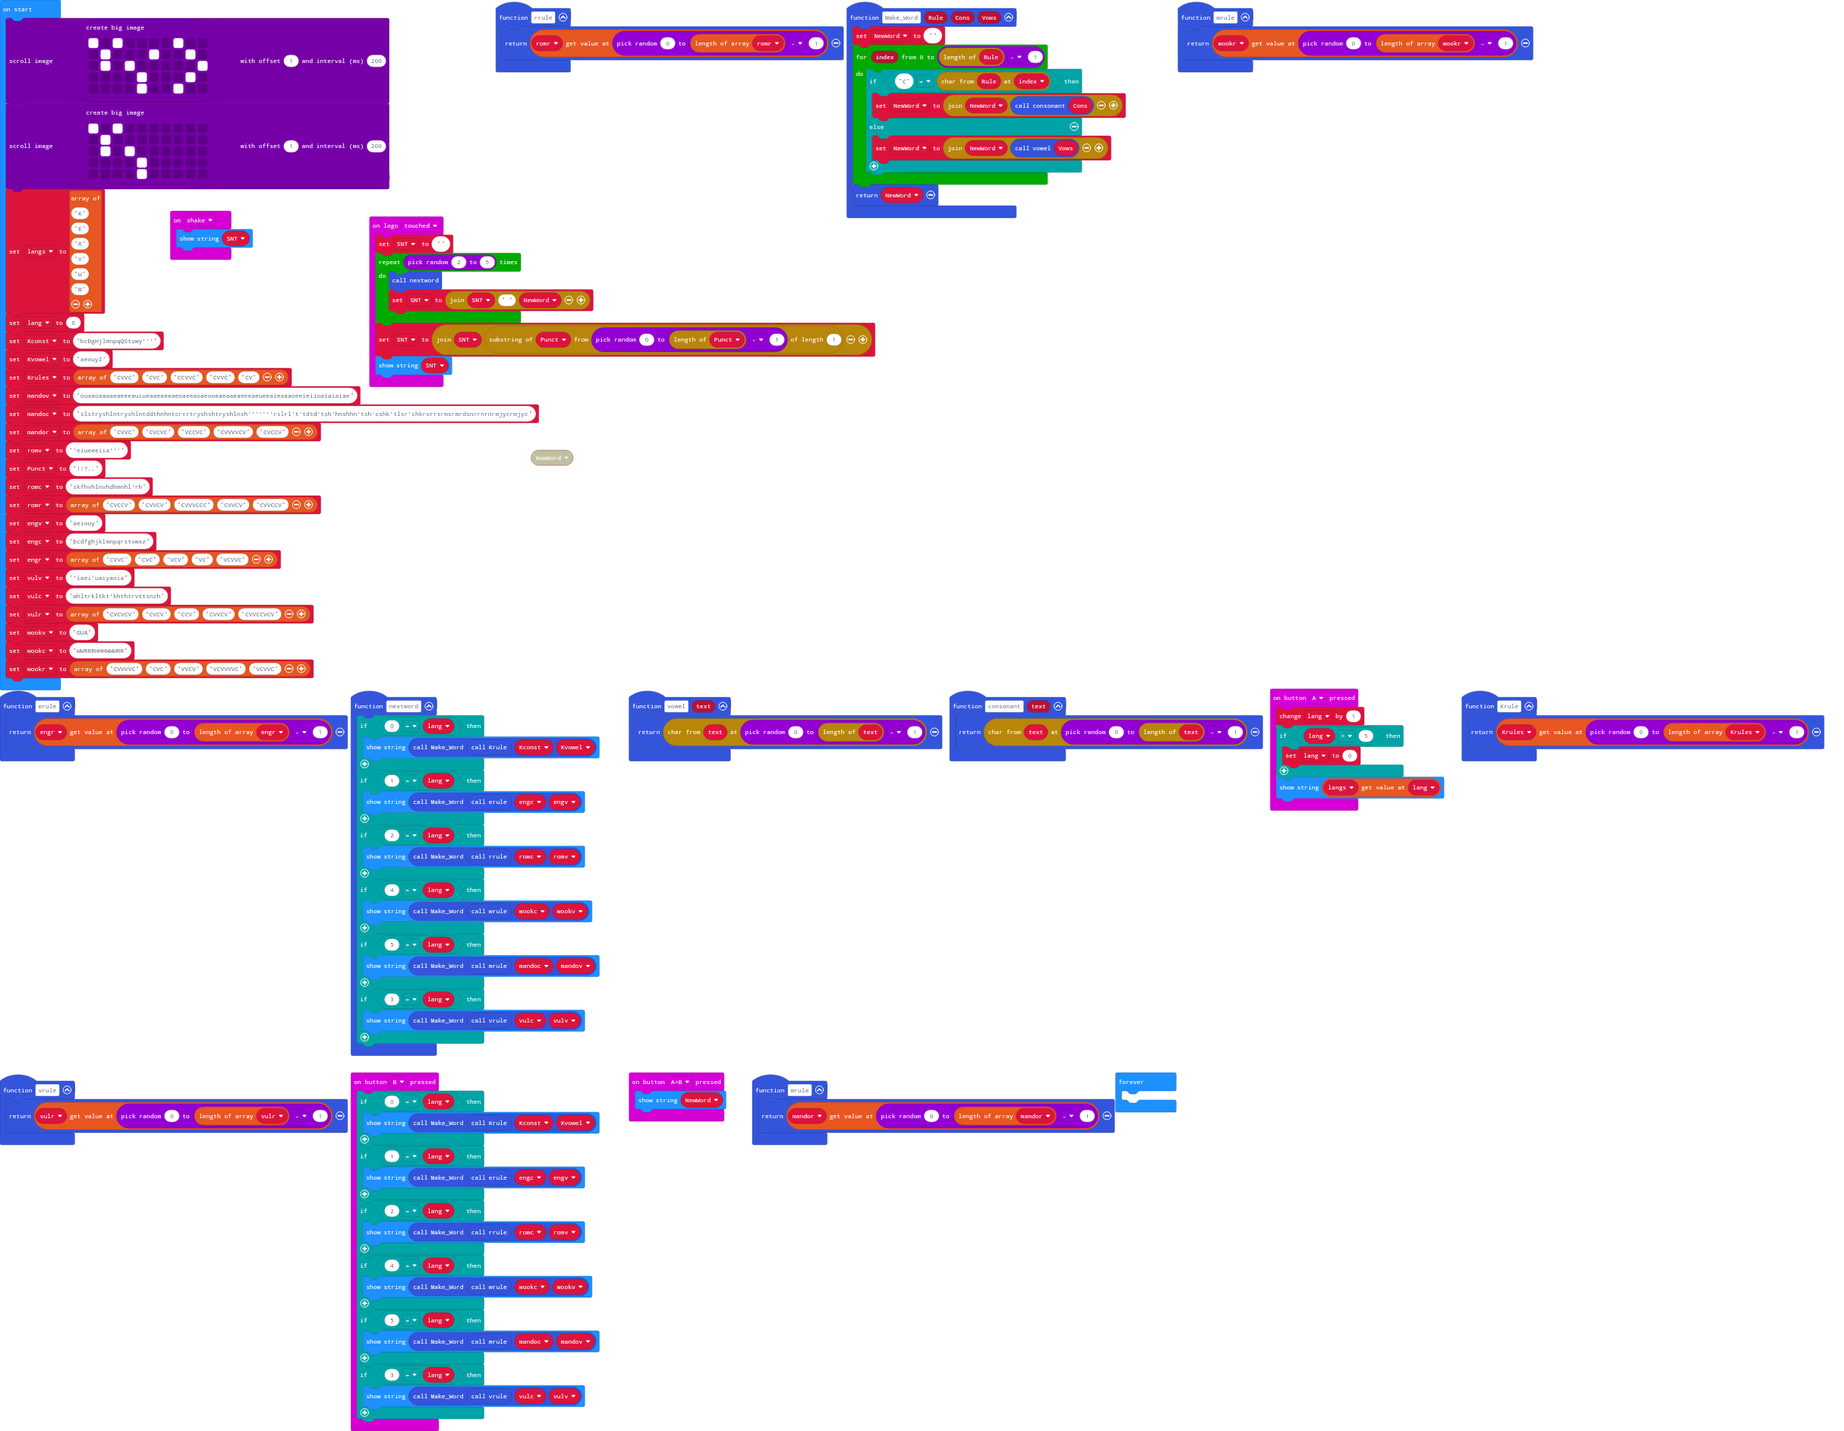
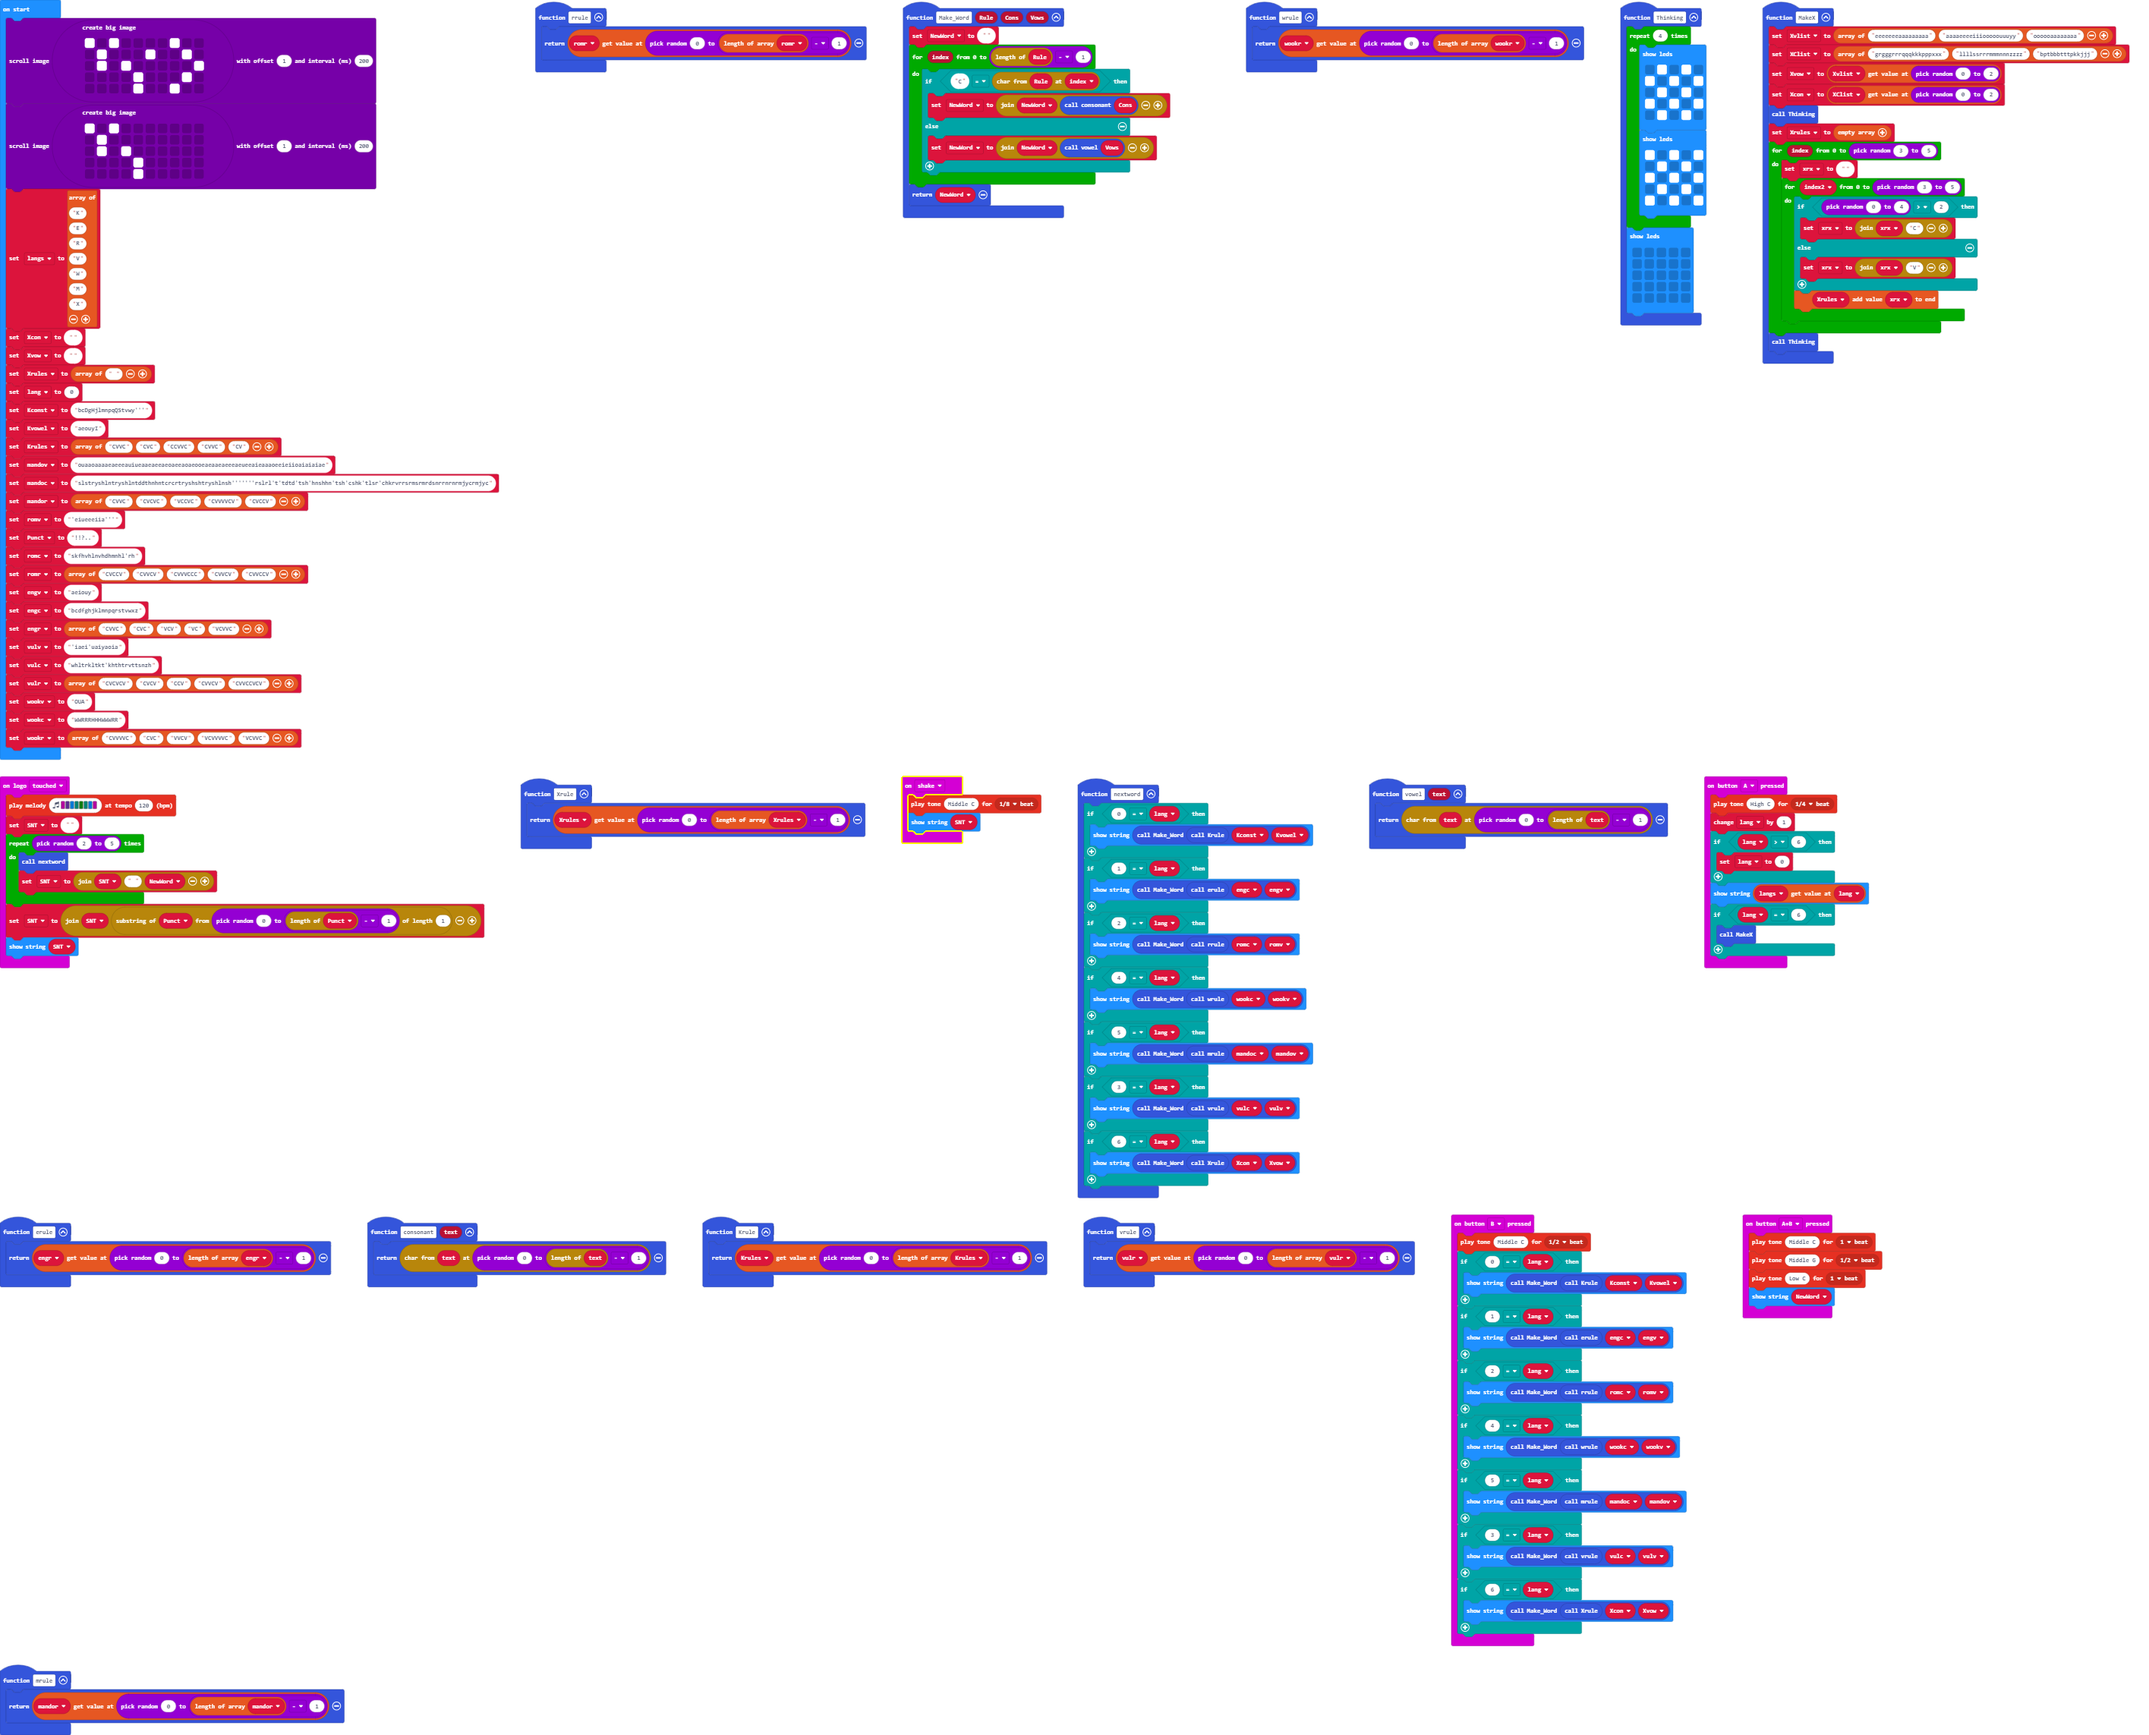
Update main.blocks, main.ts

Changed region(s): [[0.0, 0.0, 1.0, 1.0], [0.247, 0.0, 0.9881, 0.2154], [0.2779, 0.3077, 0.3088, 0.3385]]

diff --git a/main.ts b/main.ts
@@ -22,11 +22,15 @@ function consonant (text: string) {
     return text.charAt(randint(0, text.length - 1))
 }
 input.onButtonPressed(Button.A, function () {
+    music.playTone(523, music.beat(BeatFraction.Quarter))
     lang += 1
-    if (lang > 5) {
+    if (lang > 6) {
         lang = 0
     }
     basic.showString("" + (langs[lang]))
+    if (lang == 6) {
+        MakeX()
+    }
 })
 function Krule () {
     return Krules[randint(0, Krules.length - 1)]
@@ -35,9 +39,13 @@ function vrule () {
     return vulr[randint(0, vulr.length - 1)]
 }
 input.onButtonPressed(Button.AB, function () {
-    basic.showString(NewWord)
+    music.playTone(262, music.beat(BeatFraction.Whole))
+    music.playTone(392, music.beat(BeatFraction.Half))
+    music.playTone(131, music.beat(BeatFraction.Whole))
+    basic.showString("" + (NewWord))
 })
 input.onButtonPressed(Button.B, function () {
+    music.playTone(262, music.beat(BeatFraction.Half))
     if (0 == lang) {
         basic.showString("" + (Make_Word(Krule(), Kconst, Kvowel)))
     }
@@ -56,9 +64,38 @@ input.onButtonPressed(Button.B, function () {
     if (3 == lang) {
         basic.showString("" + (Make_Word(vrule(), vulc, vulv)))
     }
+    if (6 == lang) {
+        basic.showString("" + (Make_Word(Xrule(), Xcon, Xvow)))
+    }
 })
+function Thinking () {
+    for (let index = 0; index < 4; index++) {
+        basic.showLeds(`
+            . # . # .
+            # . # . #
+            . # . # .
+            # . # . #
+            . # . # .
+            `)
+        basic.showLeds(`
+            # . # . #
+            . # . # .
+            # . # . #
+            . # . # .
+            # . # . #
+            `)
+    }
+    basic.showLeds(`
+        . . . . .
+        . . . . .
+        . . . . .
+        . . . . .
+        . . . . .
+        `)
+}
 input.onGesture(Gesture.Shake, function () {
-    basic.showString(SNT)
+    music.playTone(262, music.beat(BeatFraction.Eighth))
+    basic.showString("" + (SNT))
 })
 function nextword () {
     if (0 == lang) {
@@ -79,22 +116,52 @@ function nextword () {
     if (3 == lang) {
         basic.showString("" + (Make_Word(vrule(), vulc, vulv)))
     }
+    if (6 == lang) {
+        basic.showString("" + (Make_Word(Xrule(), Xcon, Xvow)))
+    }
 }
 input.onLogoEvent(TouchButtonEvent.Touched, function () {
+    music.playMelody("C D E F G F E C ", 120)
     SNT = ""
     for (let index = 0; index < randint(2, 5); index++) {
         nextword()
         SNT = "" + SNT + " " + NewWord
     }
     SNT = "" + SNT + Punct.substr(randint(0, Punct.length - 1), 1)
-    basic.showString(SNT)
+    basic.showString("" + (SNT))
 })
 function erule () {
     return engr[randint(0, engr.length - 1)]
 }
+function MakeX () {
+    Xvlist = ["eeeeeeeaaaaaaaaa", "aaaaeeeeiiiooooouuuyy", "oooooaaaaaaaa"]
+    XClist = ["grgggrrrqqqkkkpppxxx", "llllssrrrmmmnnnzzzz", "bptbbbtttpkkjjj"]
+    Xvow = Xvlist[randint(0, 2)]
+    Xcon = XClist[randint(0, 2)]
+    Thinking()
+    Xrules = []
+    for (let index = 0; index <= randint(3, 5); index++) {
+        xrx = ""
+        for (let index2 = 0; index2 <= randint(3, 5); index2++) {
+            if (randint(0, 4) > 2) {
+                xrx = "" + xrx + "C"
+            } else {
+                xrx = "" + xrx + "V"
+            }
+            Xrules.push(xrx)
+        }
+    }
+    Thinking()
+}
 function mrule () {
     return mandor[randint(0, mandor.length - 1)]
 }
+function Xrule () {
+    return Xrules[randint(0, Xrules.length - 1)]
+}
+let xrx = ""
+let XClist: string[] = []
+let Xvlist: string[] = []
 let SNT = ""
 let NewWord = ""
 let wookr: string[] = []
@@ -117,6 +184,9 @@ let Krules: string[] = []
 let Kvowel = ""
 let Kconst = ""
 let lang = 0
+let Xrules: string[] = []
+let Xvow = ""
+let Xcon = ""
 let langs: string[] = []
 images.createBigImage(`
     # . # . . . . # . .
@@ -132,7 +202,10 @@ images.createBigImage(`
     . . . . # . . . . .
     . . . . # . . . . .
     `).scrollImage(1, 200)
-langs = ["K", "E", "R", "V", "W", "M"]
+langs = ["K", "E", "R", "V", "W", "M", "X"]
+Xcon = ""
+Xvow = ""
+Xrules = [" "]
 lang = 0
 Kconst = "bcDgHjlmnpqQStvwy'''"
 Kvowel = "aeouyI"
@@ -153,6 +226,3 @@ vulr = ["CVCVCV", "CVCV", "CCV", "CVVCV", "CVVCCVCV"]
 wookv = "OUA"
 wookc = "WWRRRHHHWWWRR"
 wookr = ["CVVVVC", "CVC", "VVCV", "VCVVVVC", "VCVVC"]
-basic.forever(function () {
-	
-})
